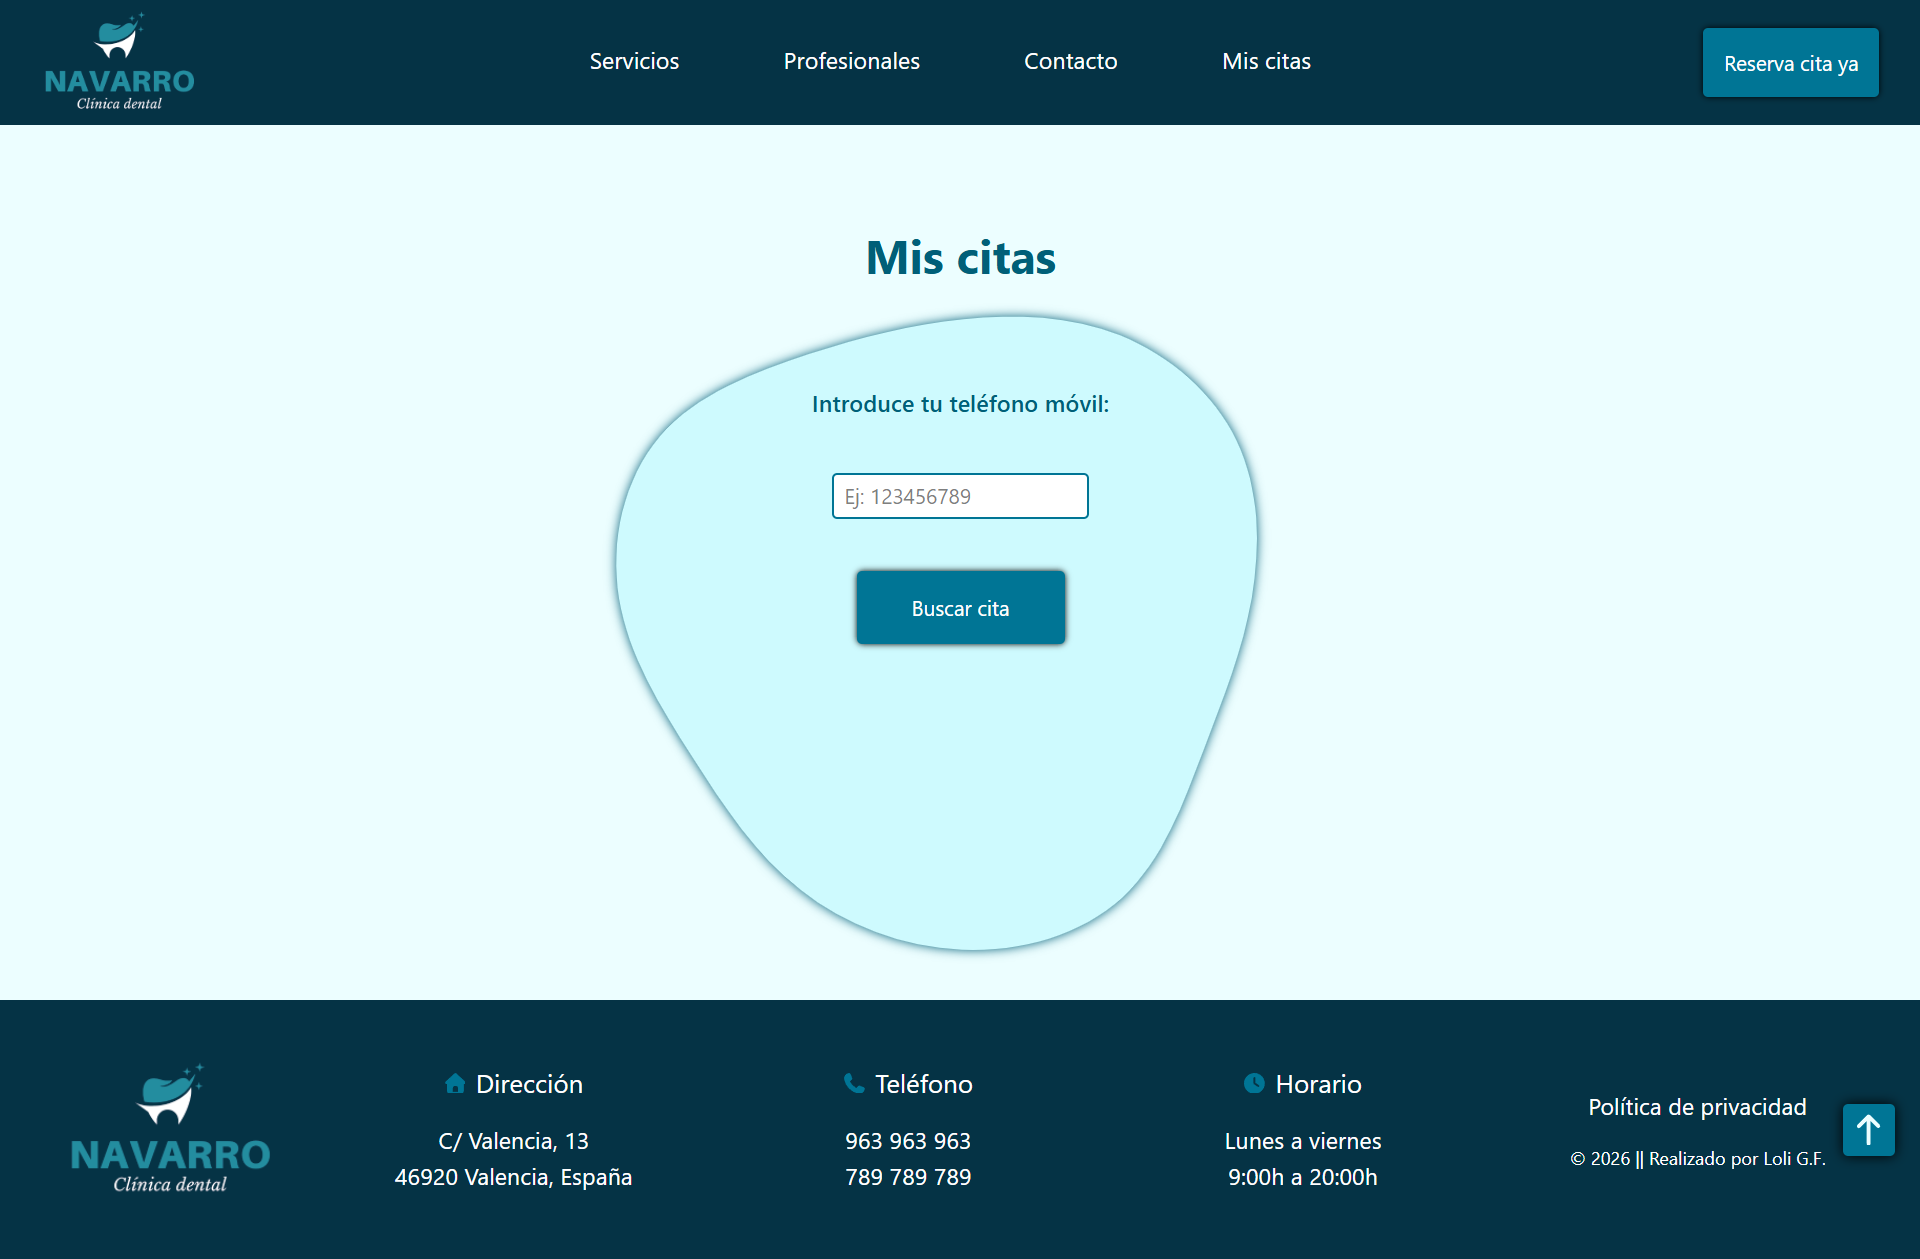
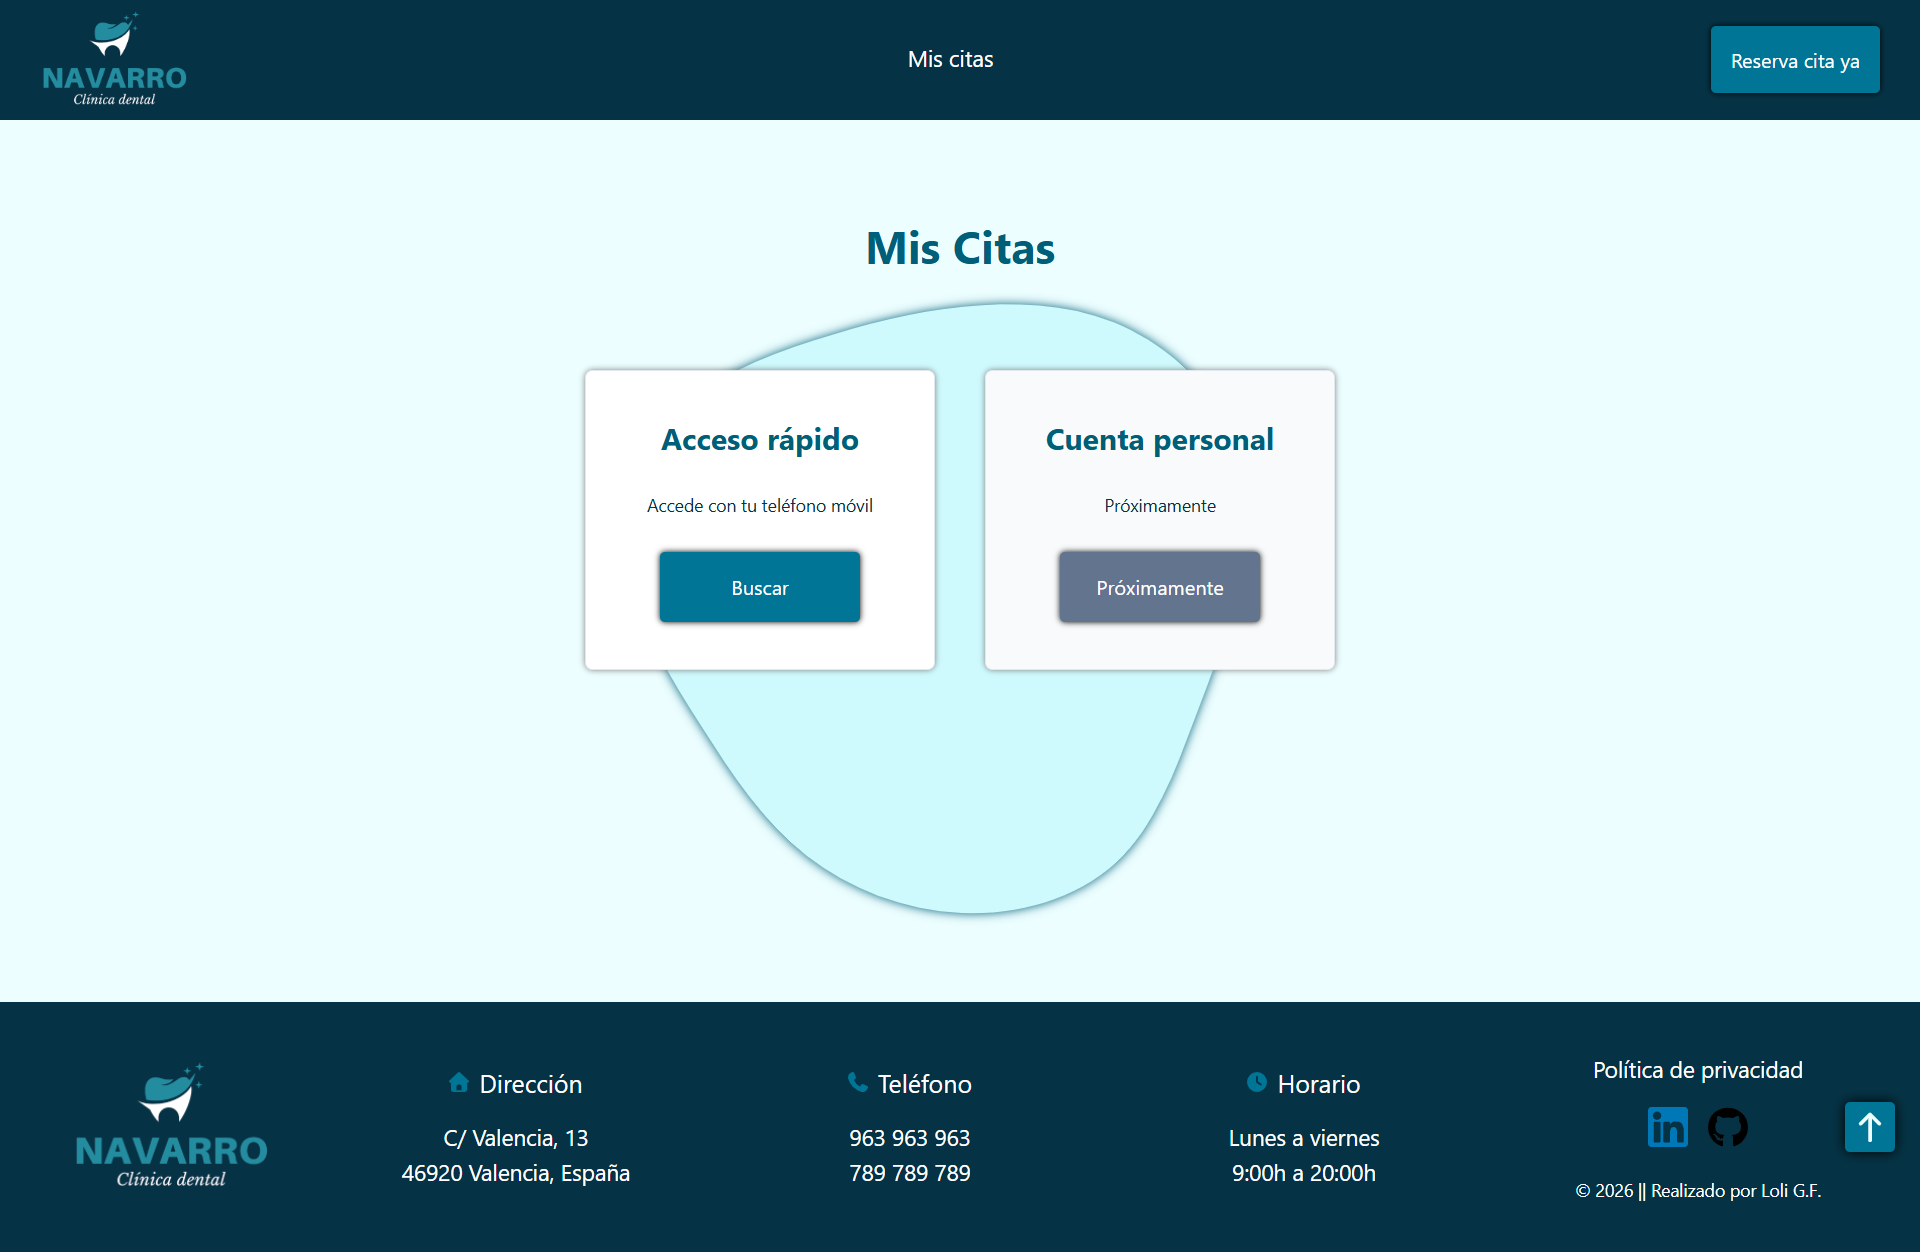
⬆ update: actualización imágenes de Mis Citas en README
Se actualizan las imágenes de ejemplo:
- Mis Citas
- Acceso rápido (demo con teléfono registrado anteriormente en el formulario)
- Ver cita
- Modificar cita
- Eliminar cita

diff --git a/README.md b/README.md
@@ -57,11 +57,13 @@ Sistema de gestión de citas que permite a los usuarios:
 
 ![Página Mis Citas](mis-citas.png)
 
-![Ver cita reservada](mostrar-cita-reservada.png)
+![Acceso rápido](mis-citas-acceso-rapido.png)
 
-![Modificar cita](editar-cita.png)
+![Ver cita reservada](mis-citas-acceso-rapido-ver-cita.png)
 
-![Eliminar cita](eliminar-cita.png)
+![Modificar cita](mis-citas-acceso-rapido-modificar-cita.png)
+
+![Eliminar cita](mis-citas-acceso-rapido-eliminar-cita.png)
 
 ## Bibliografía
 
